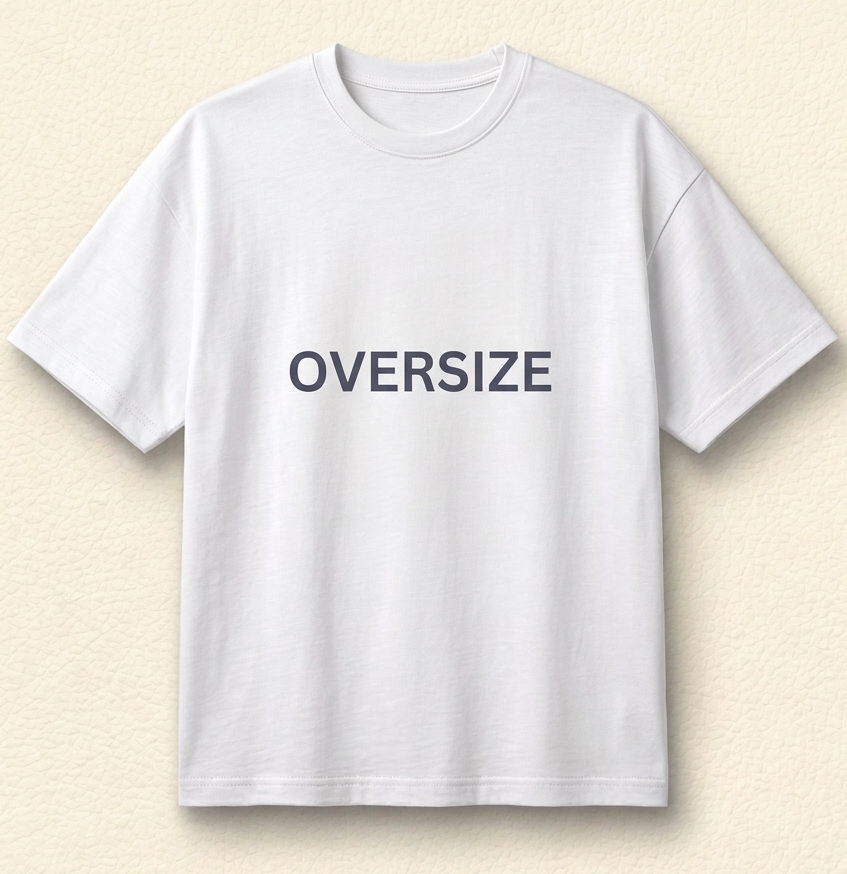
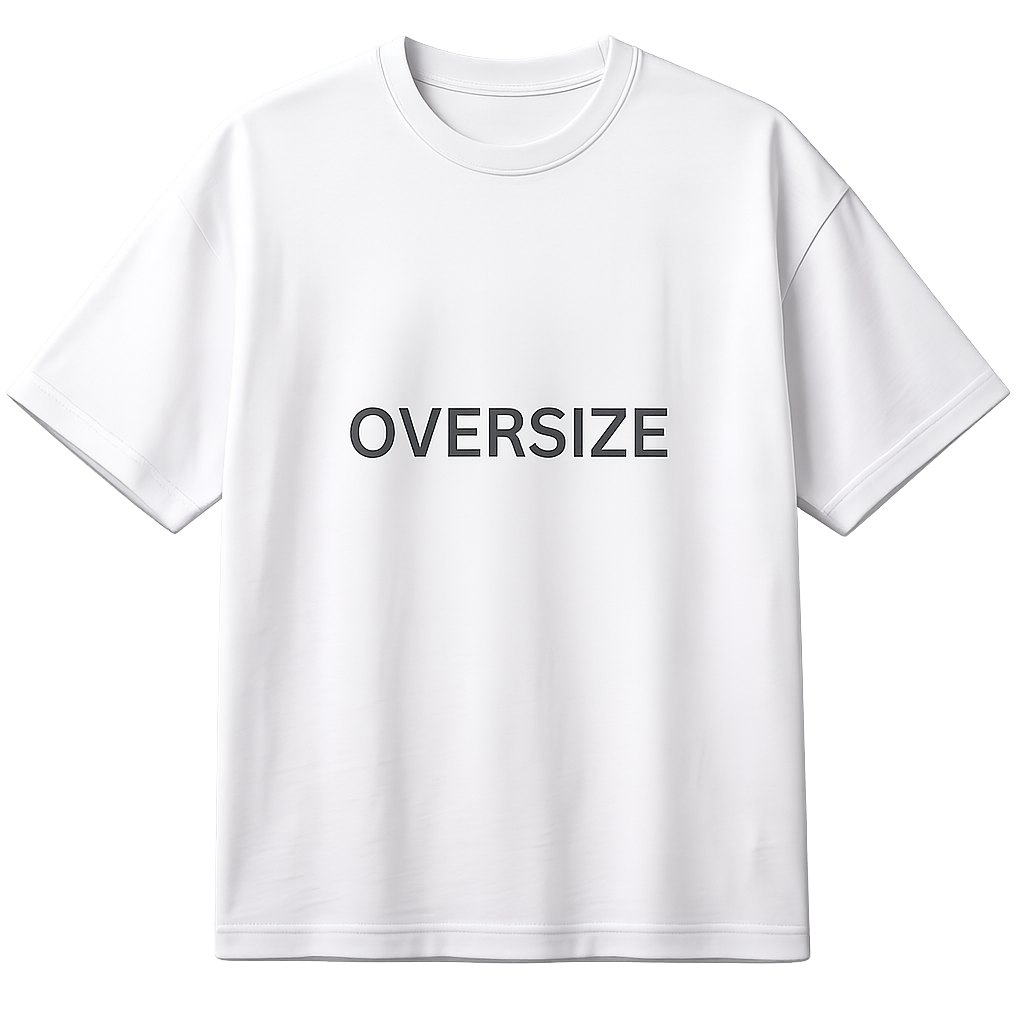
غه

diff --git a/src/components/SettingsSidebar.tsx b/src/components/SettingsSidebar.tsx
@@ -105,13 +105,49 @@ async function generateTshirtImage(
   tshirtColor: TShirtColor,
   view: TShirtView,
   width = 600,
-  height = 600
+  height = 600,
+  bgColor?: string,
+  bgImageBase64?: string
 ): Promise<string> {
   const canvas = document.createElement('canvas');
   canvas.width = width;
   canvas.height = height;
   const ctx = canvas.getContext('2d');
   if (!ctx) throw new Error('no ctx');
+
+  if (bgColor && bgColor !== 'transparent') {
+    ctx.fillStyle = bgColor;
+    ctx.fillRect(0, 0, width, height);
+  }
+
+  if (bgImageBase64) {
+    try {
+      const bgImgUrl = await fetchAsBlobUrl(bgImageBase64);
+      await new Promise<void>((resolve) => {
+        const img = new Image();
+        img.onload = () => {
+          const imgRatio = img.width / img.height;
+          const canvasRatio = width / height;
+          let drawWidth = width;
+          let drawHeight = height;
+          let offsetX = 0;
+          let offsetY = 0;
+          if (imgRatio > canvasRatio) {
+            drawWidth = height * imgRatio;
+            offsetX = (width - drawWidth) / 2;
+          } else {
+            drawHeight = width / imgRatio;
+            offsetY = (height - drawHeight) / 2;
+          }
+          ctx.drawImage(img, offsetX, offsetY, drawWidth, drawHeight);
+          URL.revokeObjectURL(bgImgUrl);
+          resolve();
+        };
+        img.onerror = () => resolve();
+        img.src = bgImgUrl;
+      });
+    } catch (e) { console.error('Failed to draw bg image', e); }
+  }
 
   const scale = width / CANVAS_WIDTH;
 
@@ -1179,9 +1215,13 @@ export default function SettingsSidebar({
   const [showPinterestModal, setShowPinterestModal] = useState(false);
   const [showPublishModal, setShowPublishModal] = useState(false);
   const [publishName, setPublishName] = useState('');
+  const [publishBgTab, setPublishBgTab] = useState<'none' | 'color' | 'image'>('none');
+  const [publishBgColor, setPublishBgColor] = useState('#1a1a1a');
+  const [publishBgImage, setPublishBgImage] = useState<string | undefined>(undefined);
   const [publishToast, setPublishToast] = useState<string | null>(null);
   const [designUrl, setDesignUrl] = useState('');
   const fileInputRef = useRef<HTMLInputElement>(null);
+  const publishBgRef = useRef<HTMLInputElement>(null);
   const [isPublishing, setIsPublishing] = useState(false);
 
   const showToast = useCallback((msg: string) => {
@@ -1223,7 +1263,9 @@ export default function SettingsSidebar({
     setIsPublishing(true);
     try {
       const API_BASE = import.meta.env.VITE_API_URL || (window.location.hostname === 'localhost' ? 'http://localhost:3001' : '');
-      const frontBase64 = await generateTshirtImage(allLayers, tshirtColor, 'front', 400, 400);
+      const bgColorToUse = publishBgTab === 'color' ? publishBgColor : 'transparent';
+      const bgImageToUse = publishBgTab === 'image' ? publishBgImage : undefined;
+      const frontBase64 = await generateTshirtImage(allLayers, tshirtColor, 'front', 400, 400, bgColorToUse, bgImageToUse);
       let imageUrl = '';
       try { imageUrl = await uploadToImgBB(frontBase64); } catch(e) {}
       const res = await fetch(`${API_BASE}/api/designs`, {
@@ -1591,6 +1633,107 @@ export default function SettingsSidebar({
               onFocus={e => e.target.style.borderColor = 'var(--accent-primary)'}
               onBlur={e => e.target.style.borderColor = 'var(--border-color)'}
             />
+
+            {/* Background Section */}
+            <div style={{ marginBottom: 20 }}>
+              <p style={{ fontSize: 12, color: 'var(--text-muted)', letterSpacing: '0.08em', marginBottom: 10 }}>
+                خلفية بطاقة التصميم (اختياري)
+              </p>
+
+              {/* Tabs */}
+              <div style={{ display: 'flex', gap: 6, marginBottom: 12 }}>
+                {(['none', 'color', 'image'] as const).map(tab => (
+                  <button
+                    key={tab}
+                    onClick={() => setPublishBgTab(tab)}
+                    style={{
+                      flex: 1, padding: '8px 4px', borderRadius: 8, fontSize: 12, fontWeight: 700, cursor: 'pointer',
+                      border: '1px solid var(--border-color)',
+                      backgroundColor: publishBgTab === tab ? 'var(--accent-primary)' : 'var(--bg-secondary)',
+                      color: publishBgTab === tab ? '#000' : 'var(--text-muted)',
+                      transition: 'all 0.15s',
+                    }}
+                  >
+                    {tab === 'none' ? 'بدون' : tab === 'color' ? '🎨 لون' : '🖼 صورة'}
+                  </button>
+                ))}
+              </div>
+
+              {/* Color Picker */}
+              {publishBgTab === 'color' && (
+                <div style={{ display: 'flex', alignItems: 'center', gap: 8, flexWrap: 'wrap' }}>
+                  <input
+                    type="color"
+                    value={publishBgColor}
+                    onChange={e => setPublishBgColor(e.target.value)}
+                    style={{ width: 44, height: 36, padding: 2, border: '1px solid var(--border-color)', borderRadius: 8, cursor: 'pointer', backgroundColor: 'transparent' }}
+                  />
+                  <span style={{ fontSize: 11, color: 'var(--text-muted)' }}>اختر لون الخلفية</span>
+                  {['#000000', '#111827', '#1a1a2e', '#0f3460', '#fff8e8', '#fafafa'].map(c => (
+                    <div
+                      key={c}
+                      onClick={() => setPublishBgColor(c)}
+                      style={{
+                        width: 24, height: 24, borderRadius: 6, backgroundColor: c, cursor: 'pointer', flexShrink: 0,
+                        border: publishBgColor === c ? '2.5px solid var(--accent-primary)' : '1px solid #555',
+                        transition: 'transform 0.1s',
+                      }}
+                    />
+                  ))}
+                </div>
+              )}
+
+              {/* Image Upload */}
+              <input
+                ref={publishBgRef}
+                type="file"
+                accept="image/*"
+                style={{ display: 'none' }}
+                onChange={e => {
+                  const file = e.target.files?.[0];
+                  if (!file) return;
+                  const reader = new FileReader();
+                  reader.onload = (ev) => {
+                    setPublishBgImage(ev.target?.result as string);
+                  };
+                  reader.readAsDataURL(file);
+                  e.target.value = '';
+                }}
+              />
+              {publishBgTab === 'image' && (
+                <div>
+                  {publishBgImage ? (
+                    <div style={{ position: 'relative', marginTop: 4 }}>
+                      <img
+                        src={publishBgImage}
+                        alt="خلفية"
+                        style={{ width: '100%', height: 90, objectFit: 'cover', borderRadius: 10, border: '1px solid var(--border-color)' }}
+                      />
+                      <button
+                        onClick={() => setPublishBgImage(undefined)}
+                        style={{ position: 'absolute', top: 6, left: 6, background: 'rgba(0,0,0,0.75)', border: 'none', color: '#fff', borderRadius: '50%', width: 24, height: 24, cursor: 'pointer', fontSize: 16, display: 'flex', alignItems: 'center', justifyContent: 'center' }}
+                      >×</button>
+                      <button
+                        onClick={() => publishBgRef.current?.click()}
+                        style={{ position: 'absolute', bottom: 6, left: 6, background: 'rgba(0,0,0,0.75)', border: 'none', color: '#fff', borderRadius: 6, padding: '3px 8px', cursor: 'pointer', fontSize: 11, fontWeight: 700 }}
+                      >تغيير</button>
+                    </div>
+                  ) : (
+                    <button
+                      onClick={() => publishBgRef.current?.click()}
+                      style={{
+                        width: '100%', padding: '14px', marginTop: 4,
+                        border: '1.5px dashed var(--border-color)', borderRadius: 10,
+                        backgroundColor: 'var(--bg-secondary)', color: 'var(--text-muted)',
+                        fontSize: 12, fontWeight: 600, cursor: 'pointer',
+                      }}
+                    >
+                      📷 ارفع صورة خلفية
+                    </button>
+                  )}
+                </div>
+              )}
+            </div>
 
             {/* Buttons */}
             <div style={{ display: 'flex', gap: 10 }}>
